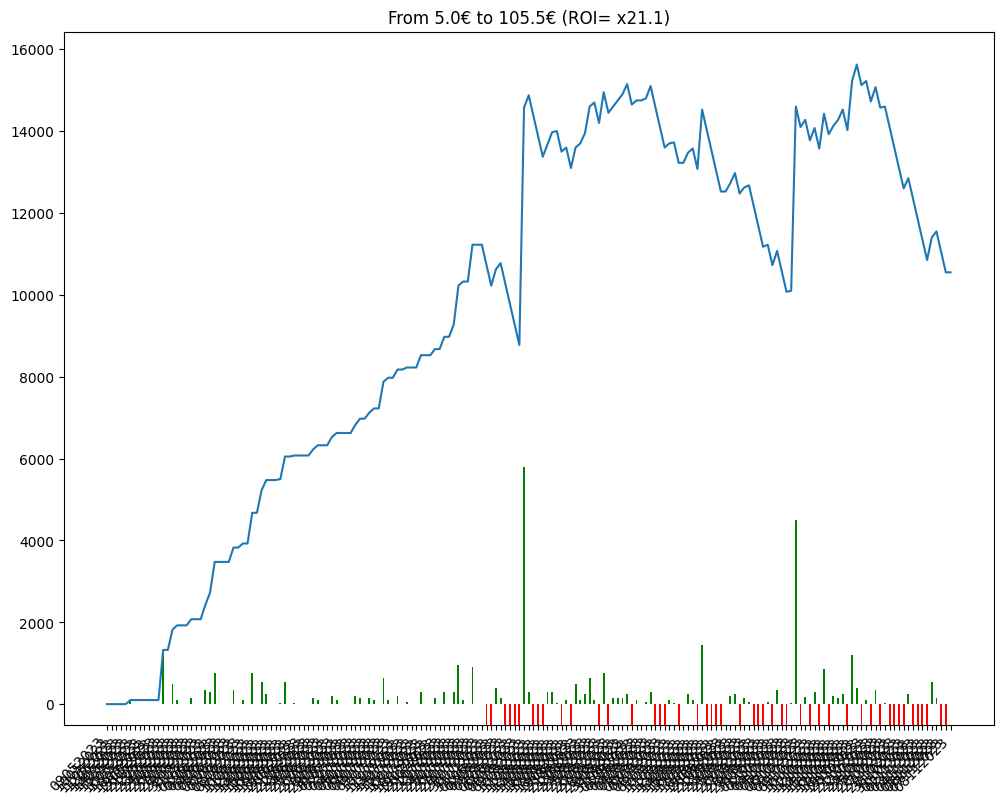
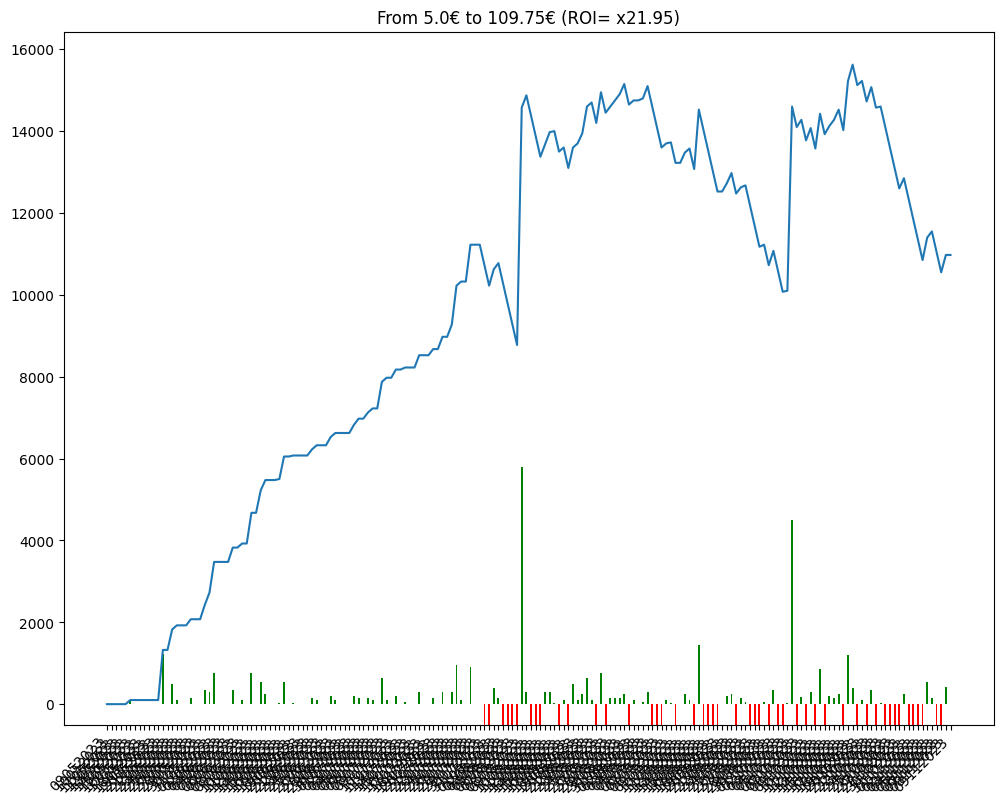
comment from python script

diff --git a/bethistory.html b/bethistory.html
@@ -86,7 +86,8 @@
             En observant la courbe 🤔, on peut avoir une idée visuelle de l'évolution des gains et ainsi évaluer le model utilisé 🧑🏫.
         </p>
         
-        <img src = "/candle.png" alt="candle chart"/><table><tr><td>Chevaux joués</td><td>Gains</td><td>URL Circuits</td></tr><tr><td>3 - HAPPY JAI JAI</td><td>0</td><td><a href=https://www.pmu.fr/turf/08112023/r2/c3 target="_blank">https://www.pmu.fr/turf/08112023/r2/c3</a></td></tr>
+        <img src = "/candle.png" alt="candle chart"/><table><tr><td>Chevaux joués</td><td>Gains</td><td>URL Circuits</td></tr><tr><td>3 - ROOSTER CROWING</td><td>0</td><td><a href=https://www.pmu.fr/turf/09112023/r3/c2 target="_blank">https://www.pmu.fr/turf/09112023/r3/c2</a></td></tr>
+<tr><td>3 - HAPPY JAI JAI</td><td>+425</td><td><a href=https://www.pmu.fr/turf/08112023/r2/c3 target="_blank">https://www.pmu.fr/turf/08112023/r2/c3</a></td></tr>
 <tr><td>4 - VAL D'AOSTE</td><td>-500</td><td><a href=https://www.pmu.fr/turf/07112023/r4/c3 target="_blank">https://www.pmu.fr/turf/07112023/r4/c3</a></td></tr>
 <tr><td>4 - MAHA DIVA</td><td>-500</td><td><a href=https://www.pmu.fr/turf/06112023/r3/c4 target="_blank">https://www.pmu.fr/turf/06112023/r3/c4</a></td></tr>
 <tr><td>9 - AQUA AUGUSTA</td><td>+150</td><td><a href=https://www.pmu.fr/turf/05112023/r1/c2 target="_blank">https://www.pmu.fr/turf/05112023/r1/c2</a></td></tr>
